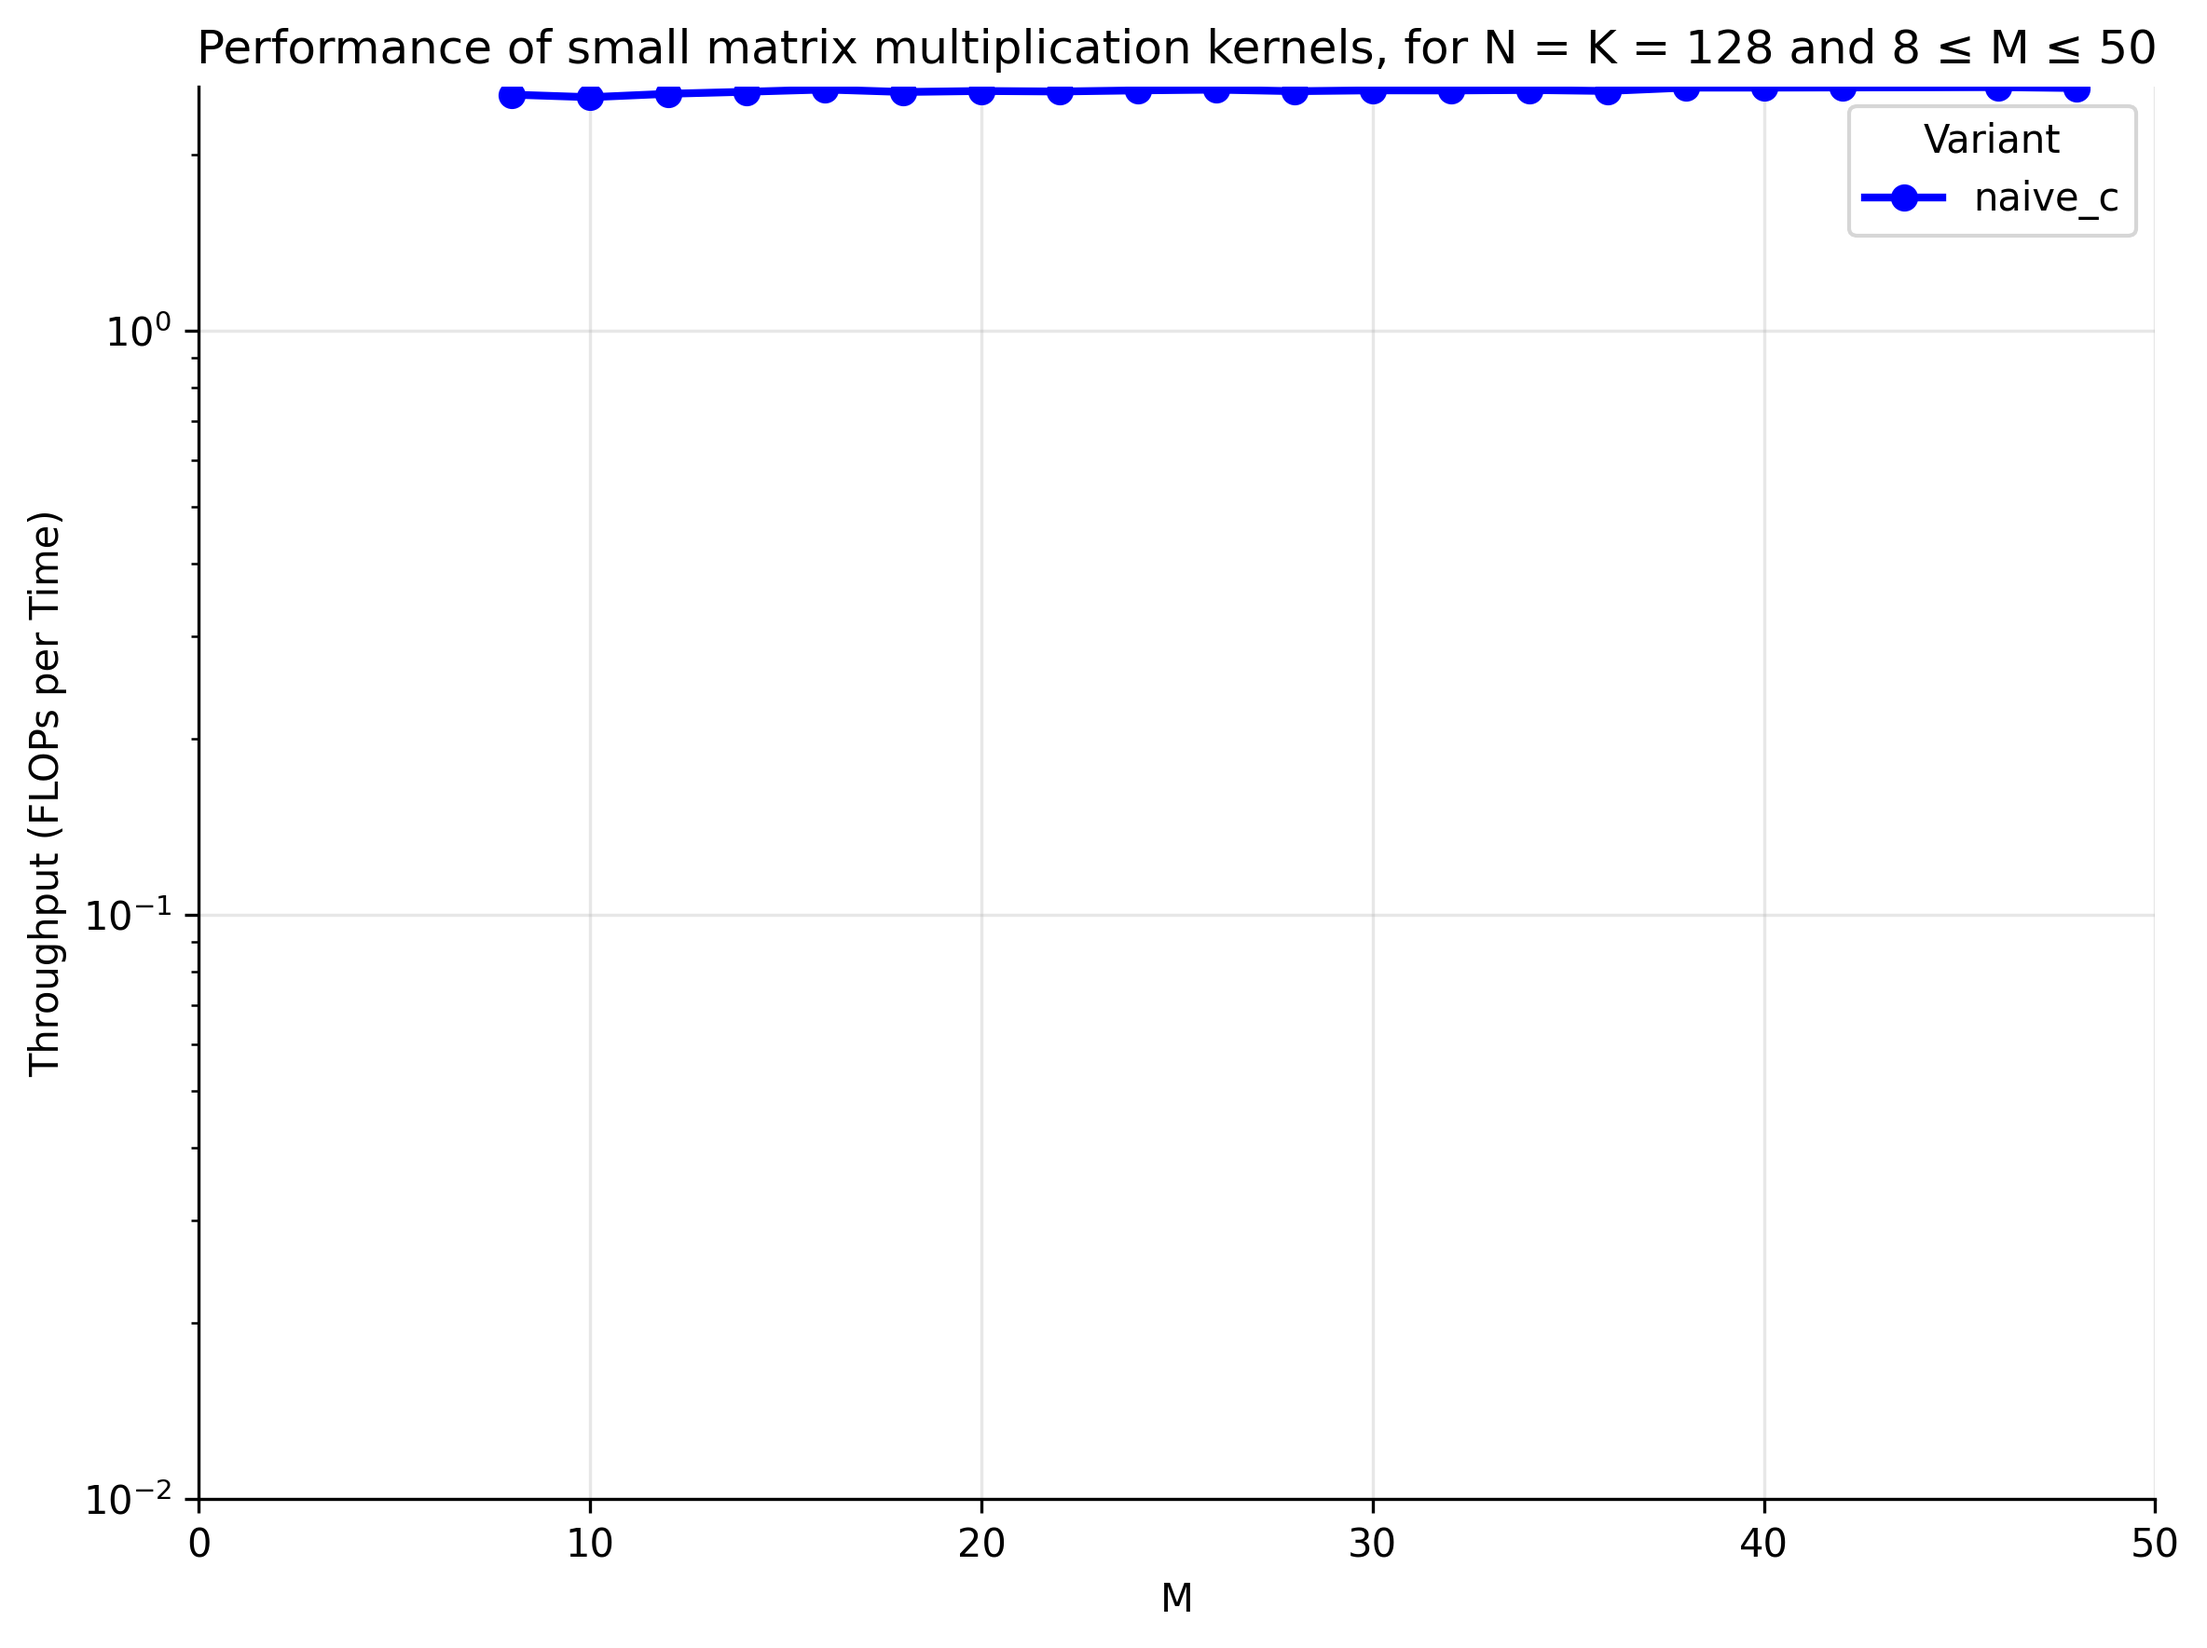
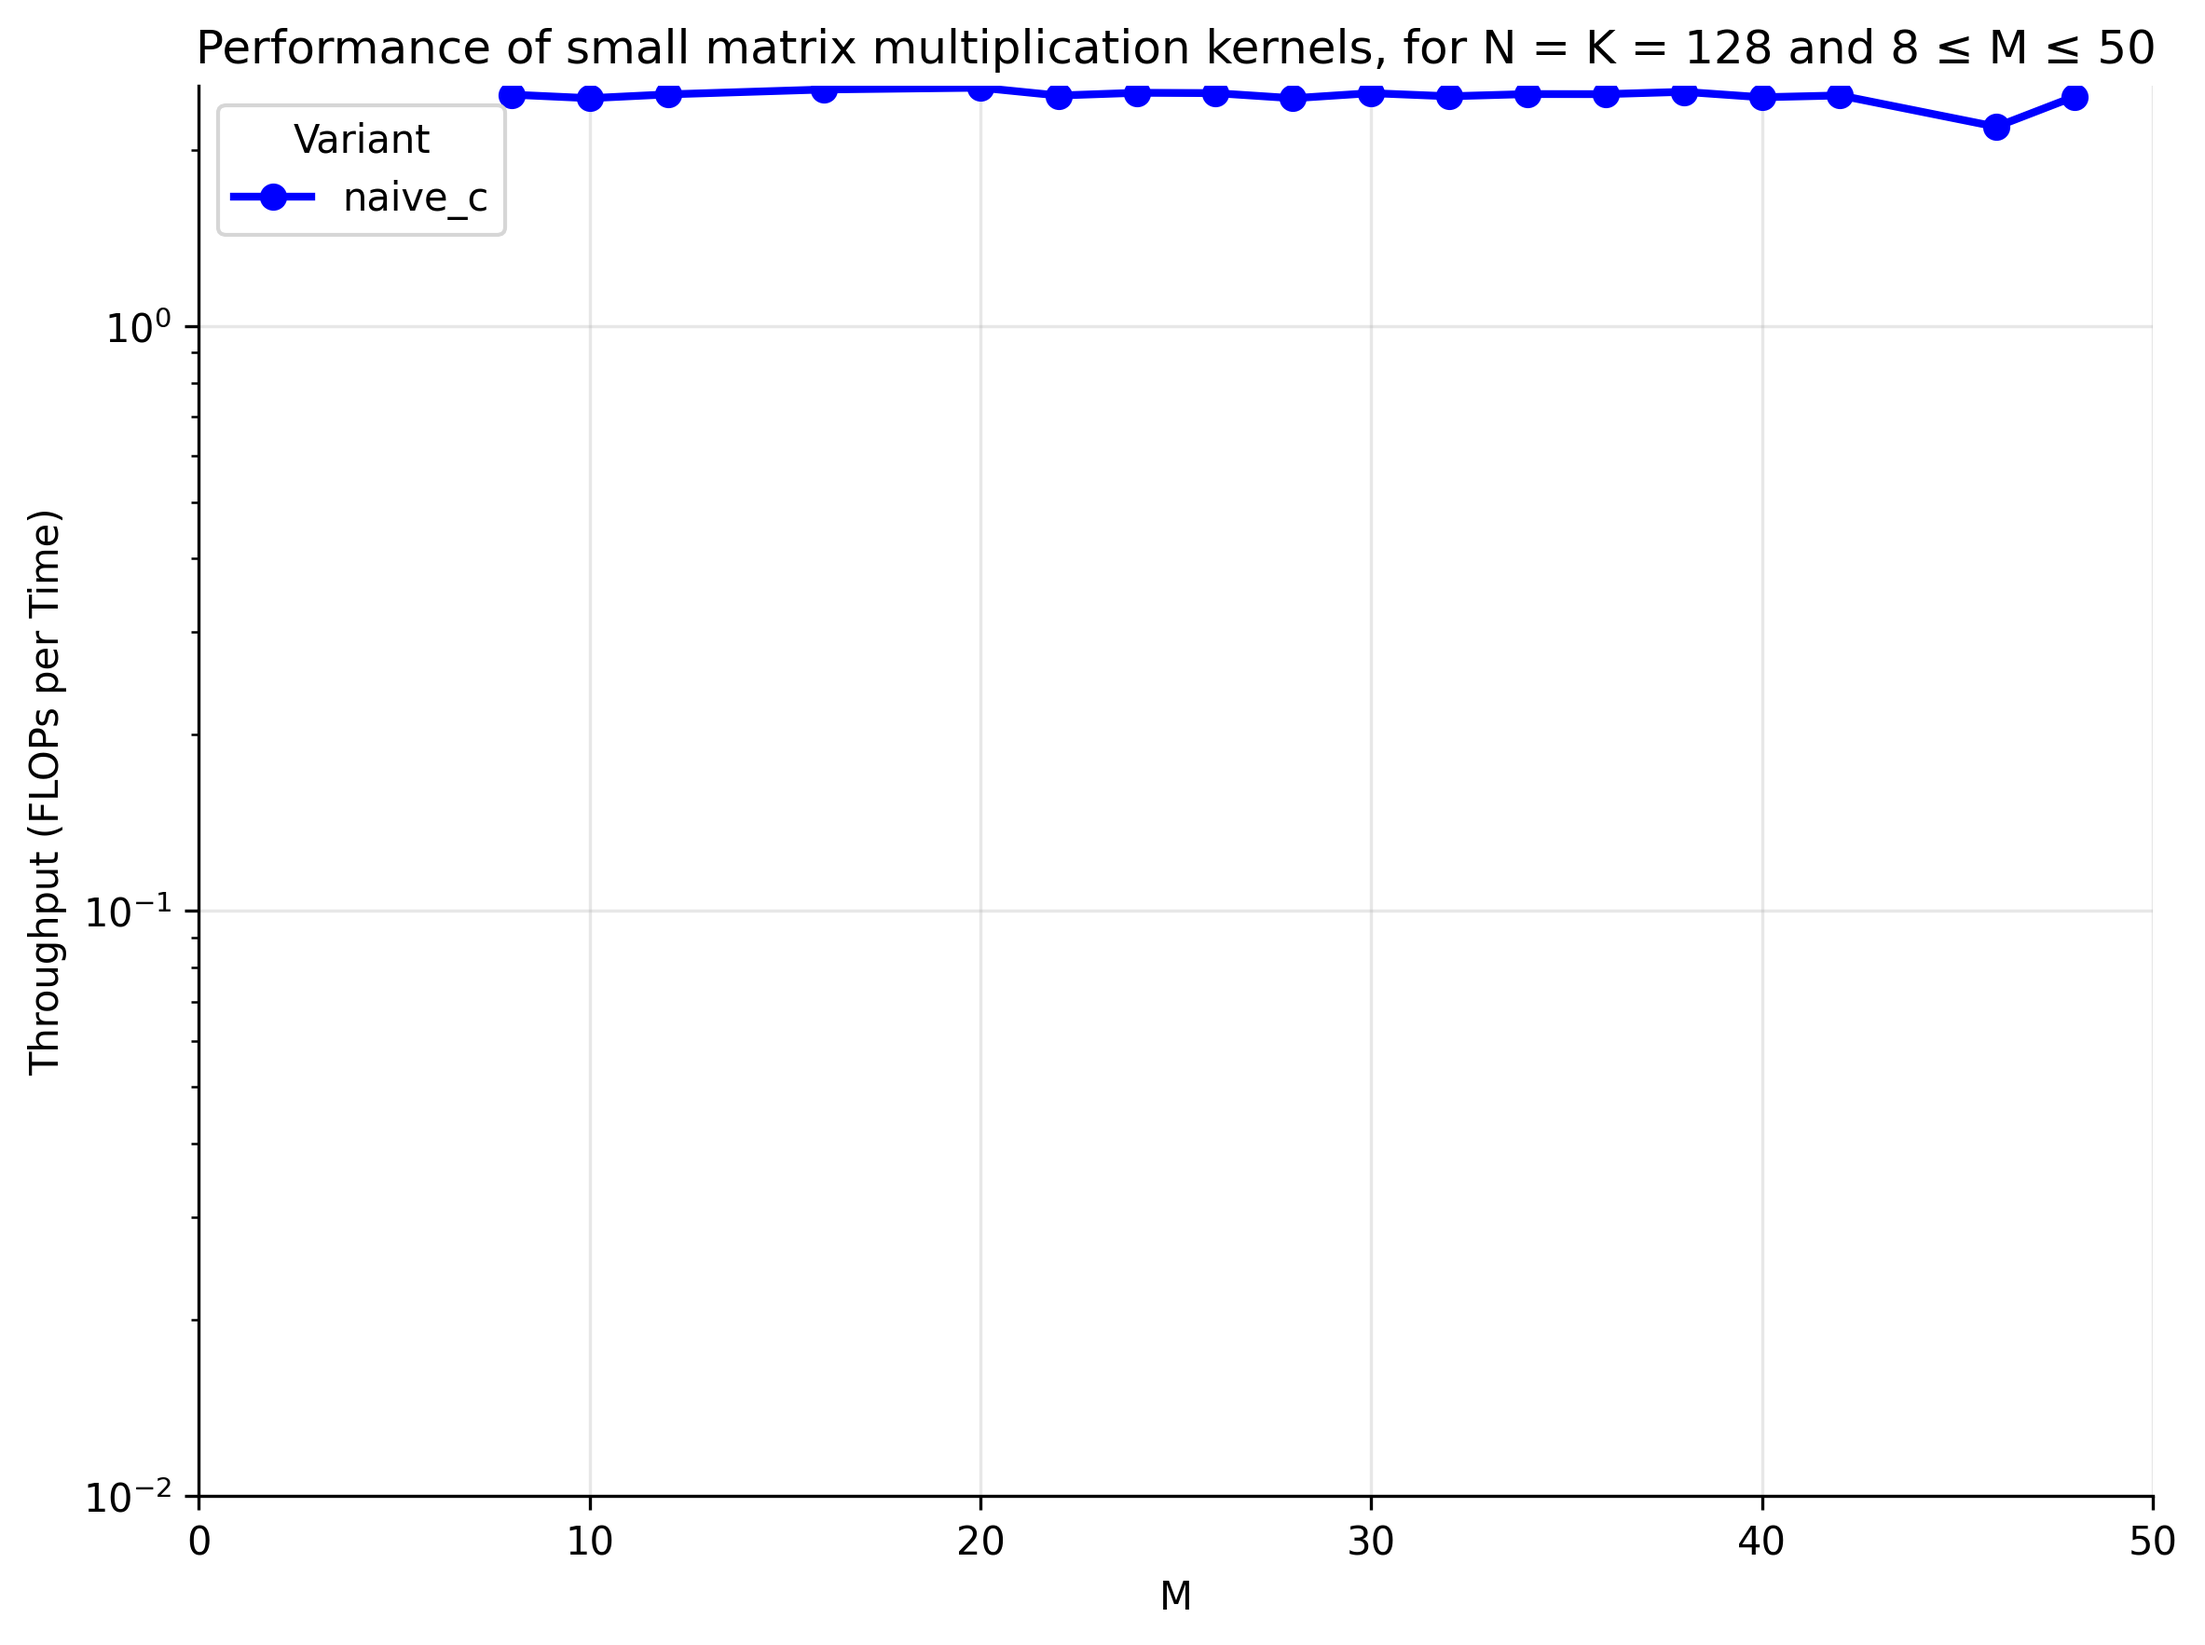
Stabilize the zoo of evaluated implementations (#140)

diff --git a/kernels/matmul_rowmaj/time.c b/kernels/matmul_rowmaj/time.c
@@ -10,7 +10,8 @@
 #include "../../headers/gendata.h"
 #include "../../headers/mnk.h"
 
-#define NUM_ITERATIONS 128
+#define TARGET_SIZE 268435456
+#define NUM_ITERATIONS (TARGET_SIZE / (M * N * K))
 #define CLOCKS_PER_USEC ((double)CLOCKS_PER_SEC / 1000000.0)
 
 extern void matmul(DTYPE A[M * K], DTYPE B[K * N], DTYPE C[M * N]);
